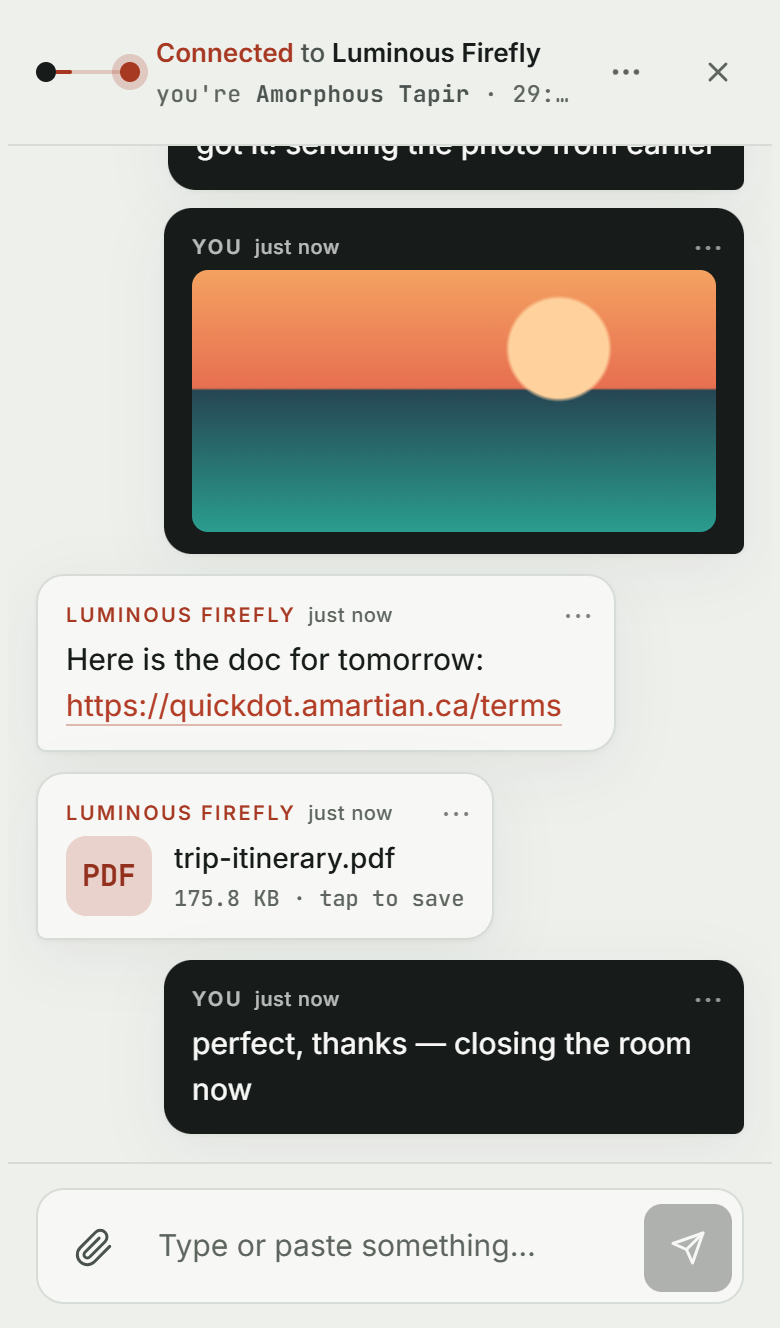
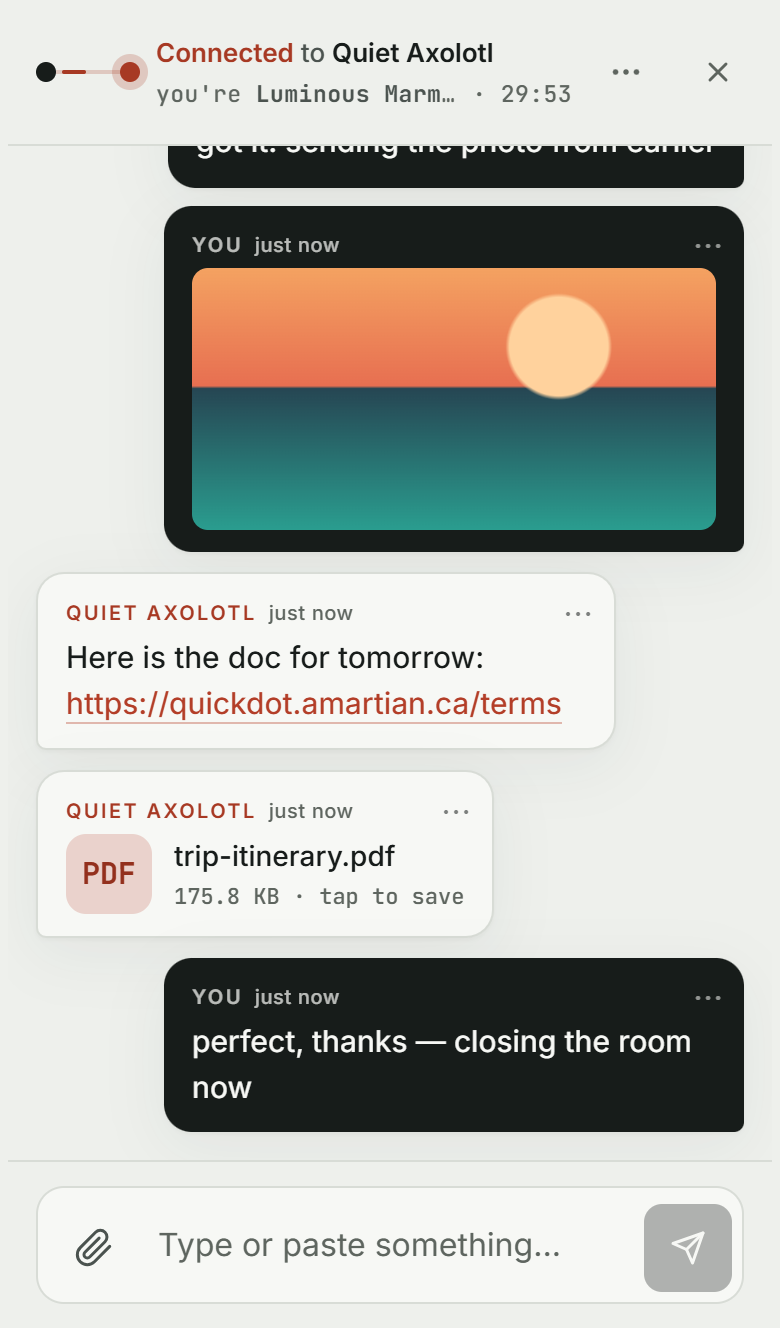
Fix responsive layout bugs found by a viewport sweep
Landing hero clears the fixed brandmark; the room header countdown never
truncates; composer placeholder stays on one line; brandmark hides below
960px in a room; landscape phones keep the composer on screen; the message
menu flips up near the feed bottom; composer is 16px on touch to stop iOS
zoom. Refresh README screenshots and add the mobile landing shot (ADR-0023).

diff --git a/frontend/src/app/room/room.scss b/frontend/src/app/room/room.scss
@@ -393,14 +393,25 @@
   }
 
   .state,
-  .mename {
+  .mename .mn {
     overflow: hidden;
     white-space: nowrap;
     text-overflow: ellipsis;
   }
 
+  // The name gives way first, so the countdown never gets cut off.
   .mename {
+    display: flex;
     margin-top: 1px;
+
+    .mn {
+      min-width: 0;
+    }
+  }
+
+  .ttlmini {
+    flex: none;
+    white-space: pre;
   }
 
   .codecard {
@@ -428,6 +439,33 @@
     .hbtn {
       min-width: 38px;
     }
+  }
+}
+
+// Landscape phones: the full invite would push the composer off-screen, so
+// drop the big link graphic and tighten everything around the code.
+@media (max-height: 500px) {
+  .roomhead:not(.compact) {
+    gap: 8px;
+    padding: 12px 18px 10px;
+
+    .link {
+      display: none;
+    }
+
+    .roomopts,
+    .leave {
+      top: 6px;
+    }
+  }
+
+  .codeval,
+  .linkbtn {
+    height: 46px;
+  }
+
+  .empty {
+    display: none;
   }
 }
 
@@ -638,6 +676,12 @@
 // items would paint over an open ⋯ menu. Lift the item that owns it.
 .item:has(.menu) {
   z-index: 5;
+}
+
+// Near the bottom of the feed the menu opens upwards from the ⋯ button.
+.item .menu.up {
+  top: auto;
+  bottom: calc(100% - 4px);
 }
 
 @media (hover: none) {
@@ -1035,5 +1079,23 @@
 
   &::placeholder {
     color: var(--ink-faint);
+    // One line only: on a 320px phone it would wrap and be clipped.
+    white-space: nowrap;
+    overflow: hidden;
+    text-overflow: ellipsis;
+  }
+}
+
+// iOS zooms the page into any field under 16px when it's focused.
+@media (pointer: coarse) {
+  .ta {
+    font-size: 16px;
+  }
+}
+
+@media (max-width: 360px) {
+  .composer {
+    padding-left: 8px;
+    padding-right: 8px;
   }
 }

diff --git a/frontend/src/app/room/room.ts b/frontend/src/app/room/room.ts
@@ -28,6 +28,8 @@ type Flashable = 'code' | 'chip' | 'link';
 
 const LEAVE_ARM_MS = 3000;
 const FLASH_MS = 1400;
+/** Space a ⋯ menu needs below its trigger: three actions plus padding. */
+const MENU_ROOM = 140;
 
 @Component({
   selector: 'app-room',
@@ -50,6 +52,8 @@ export class Room implements OnInit, OnDestroy {
   protected readonly now = signal(Date.now());
   /** Id of the item whose ⋯ menu is open. */
   protected readonly menuFor = signal<string | null>(null);
+  /** Open the ⋯ menu upwards when there isn't room for it below the trigger. */
+  protected readonly menuUp = signal(false);
   protected readonly roomMenuOpen = signal(false);
   /** The first tap on the X arms it; a second tap within 3 s leaves. */
   protected readonly leaveArmed = signal(false);
@@ -414,6 +418,15 @@ export class Room implements OnInit, OnDestroy {
     this.closeMenu(false);
     this.disarmLeave();
     this.menuTrigger = event.currentTarget as HTMLElement;
+    // The feed clips its overflow, so a menu on one of the last items would
+    // hang below the composer and hide Report. Flip it when it won't fit.
+    const feed = this.feedEl()?.nativeElement.getBoundingClientRect();
+    const trigger = this.menuTrigger.getBoundingClientRect();
+    if (feed) {
+      const below = feed.bottom - trigger.bottom;
+      const above = trigger.top - feed.top;
+      this.menuUp.set(below < MENU_ROOM && above > below);
+    }
     this.menuFor.set(item.id);
     this.focusMenuItem(0);
   }

diff --git a/frontend/src/app/room/room.html b/frontend/src/app/room/room.html
@@ -31,7 +31,7 @@
       </div>
       @if (room.you(); as you) {
         <div class="mename">
-          you're <b>{{ you.name }}</b><span class="ttlmini" [class.warn]="ttlWarn()" aria-hidden="true"> · {{ ttlClock() }}</span>
+          <span class="mn">you're <b>{{ you.name }}</b></span><span class="ttlmini" [class.warn]="ttlWarn()" aria-hidden="true"> · {{ ttlClock() }}</span>
         </div>
       }
     </div>
@@ -194,6 +194,7 @@
         @if (menuFor() === item.id) {
           <div
             class="menu"
+            [class.up]="menuUp()"
             role="menu"
             aria-label="Message actions"
             [id]="'menu-' + item.id"

diff --git a/frontend/src/app/landing/landing.scss b/frontend/src/app/landing/landing.scss
@@ -12,7 +12,9 @@
   width: 100%;
   max-width: 640px;
   margin: 0 auto;
-  padding: 32px 24px;
+  // The fixed brandmark takes the top ~60px; keep the hero clear of it on
+  // short and landscape screens, where the hero would otherwise reach the top.
+  padding: 72px 24px 32px;
 }
 
 .hero {

diff --git a/frontend/src/app/app.scss b/frontend/src/app/app.scss
@@ -10,7 +10,9 @@
   display: none;
 }
 
-@media (max-width: 900px) {
+// The room column is 720px wide, so below ~960px its header runs into the
+// brandmark's corner.
+@media (max-width: 960px) {
   :host(.in-room) .topbar {
     display: none;
   }

diff --git a/docs/DECISIONS.md b/docs/DECISIONS.md
@@ -669,3 +669,42 @@ field; old clients ignore them. A host who closes their tab loses the
 ability to end the room for everyone, which matches "leaving drops host"
 in the prototype. Human accessibility checks should cover dark mode and
 the new menus.
+
+## ADR-0023: Responsive layout fixes from a viewport sweep
+
+**Date:** 2026-10-10
+**Stage:** 7 (post-launch polish)
+
+**Context:** Capturing README screenshots showed the fixed `quickdot●`
+brandmark sitting on the landing kicker at iPhone size. A scripted sweep
+(Playwright, 13 viewports from 320×568 to 1440×900 including landscape
+phones, every page and room state) checked for overlaps, horizontal
+overflow, clipped text, an off-screen composer and clipped menus. It found
+seven problems:
+1. Landing: brandmark overlaps the kicker on short and landscape screens.
+2. Room header (≤440px): the mini countdown was the part that got cut off
+   by the ellipsis, from 390px down; at 320px it vanished entirely.
+3. Composer placeholder wrapped to two lines and was clipped at 320px.
+4. 900–960px: the brandmark crowds the room header's left edge.
+5. Landscape phones (≤500px tall): the waiting invite pushed the composer
+   off-screen.
+6. The ⋯ menu on the newest messages hung below the feed, hiding Report.
+7. The composer textarea was 15px, so iOS Safari zoomed the page on focus.
+
+**Decision:**
+- Landing `.wrap` gets 72px top padding to clear the fixed brandmark.
+- In the compact header, `.mename` is a flex row: your name truncates and
+  the countdown (`.ttlmini`) never shrinks.
+- Placeholder is single-line with an ellipsis; composer side padding drops
+  to 8px at ≤360px.
+- The in-room brandmark breakpoint moves from 900px to 960px.
+- `@media (max-height: 500px)`: the waiting invite hides the link graphic,
+  tightens spacing, shrinks the code card to 46px and hides the empty-feed
+  hint.
+- The message menu flips upwards when there's under 140px of feed below
+  its trigger and more room above (`menuUp` signal, `.menu.up`).
+- Textarea is 16px on coarse pointers (`@media (pointer: coarse)`).
+
+**Consequences:** No behaviour change on desktop beyond the menu flip near
+the bottom of the feed. Long fun names now show an ellipsis earlier on
+small phones in exchange for an always-visible countdown.

diff --git a/README.md b/README.md
@@ -18,11 +18,24 @@ server.
 
 <table>
   <tr>
-    <td width="33%"><img src="docs/media/room-mobile.png" alt="The same room on a phone"></td>
+    <td width="33%"><img src="docs/media/landing-mobile.png" alt="Landing page on a phone"></td>
+    <td width="33%"><img src="docs/media/room-mobile.png" alt="An active room on a phone"></td>
     <td width="33%"><img src="docs/media/room-mobile-dark.png" alt="The room on a phone in dark mode"></td>
-    <td width="33%"><img src="docs/media/landing-desktop.png" alt="Landing page"><br><br><img src="docs/media/waiting-desktop.png" alt="A new room waiting for someone to join"></td>
+  </tr>
+  <tr>
+    <td colspan="3">
+      <img width="49%" src="docs/media/landing-desktop.png" alt="Landing page on desktop">
+      <img width="49%" src="docs/media/waiting-desktop.png" alt="A new room waiting for someone to join">
+    </td>
   </tr>
 </table>
+
+<details>
+<summary>Dark mode on desktop</summary>
+
+![An active room in dark mode](docs/media/room-desktop-dark.png)
+
+</details>
 
 ## Features
 
@@ -61,7 +74,7 @@ server.
   truncated IP hash and the file's SHA-256, size and type. The SHA-256 is
   computed as a running digest while the file streams. Sentry scrubs
   exception messages on both the frontend and the backend.
-- **Every decision is written down.** There are [22 ADRs](docs/DECISIONS.md),
+- **Every decision is written down.** There are [23 ADRs](docs/DECISIONS.md),
   an [as-built architecture](docs/ARCHITECTURE.md) and the original
   [spec](SPEC.md) with its staged build plan.
 

diff --git a/docs/ARCHITECTURE.md b/docs/ARCHITECTURE.md
@@ -294,9 +294,13 @@ quickdot/
 - **Room header:** centred invite while waiting; once anyone joins it
   collapses to one row (`.compact`) with a code chip, countdown, the room ⋯
   menu and a two-tap leave X. Under 440px the chip and countdown give way to
-  a mini countdown next to your name; under 900px the brandmark is hidden in
-  a room, and the footer is hidden in a room at every width (`App` host
-  class `in-room`).
+  a mini countdown next to your name (the name truncates first, so the
+  countdown always shows); under 960px the brandmark is hidden in a room,
+  and the footer is hidden in a room at every width (`App` host class
+  `in-room`). Under 500px tall (landscape phones) the waiting invite drops
+  the link graphic and the empty-feed hint so the composer stays on screen.
+- **Message ⋯ menu** opens upwards (`.menu.up`) when there's less than
+  140px of feed below its trigger, so Report is never clipped by the feed.
 - **Room menu:** copy/share link (system share sheet on touch), copy code,
   layout and theme (`menuitemradio`), leave, and for the creator "End room
   for everyone" (two taps). Uses the same ARIA menu keyboard handling as the

diff --git a/docs/KNOWLEDGE.md b/docs/KNOWLEDGE.md
@@ -29,14 +29,13 @@ a record of what was asked and answered.
       flag themselves as "not legal advice" — the spec's Definition of Done
       requires both be lawyer-reviewed before launch.
 
-- [ ] **Landing page: logo overlaps the kicker on short phone viewports.**
-      Found while capturing README screenshots (2026-10-10) at iPhone 14
-      size (390×664 visible): the fixed `quickdot●` wordmark sits on top of
-      "NO ACCOUNT · NO DOWNLOAD…". Needs top clearance on the hero at small
-      heights. A mobile landing shot was left out of `docs/media/` until
-      it's fixed.
-
 ## Resolved
+
+- [x] **Responsive layout bugs** — 2026-10-10 (ADR-0023). The landing
+      logo/kicker overlap found during README screenshots, plus six more
+      found by a 13-viewport sweep, are fixed and re-verified by the same
+      sweep. Still worth a look on a real iPhone: the composer no longer
+      zooms on focus.
 
 - [x] **v2 redesign shipped** — 2026-10-09 (ADR-0022). Frontend live via
       Cloudflare; backend deployed by hand with
